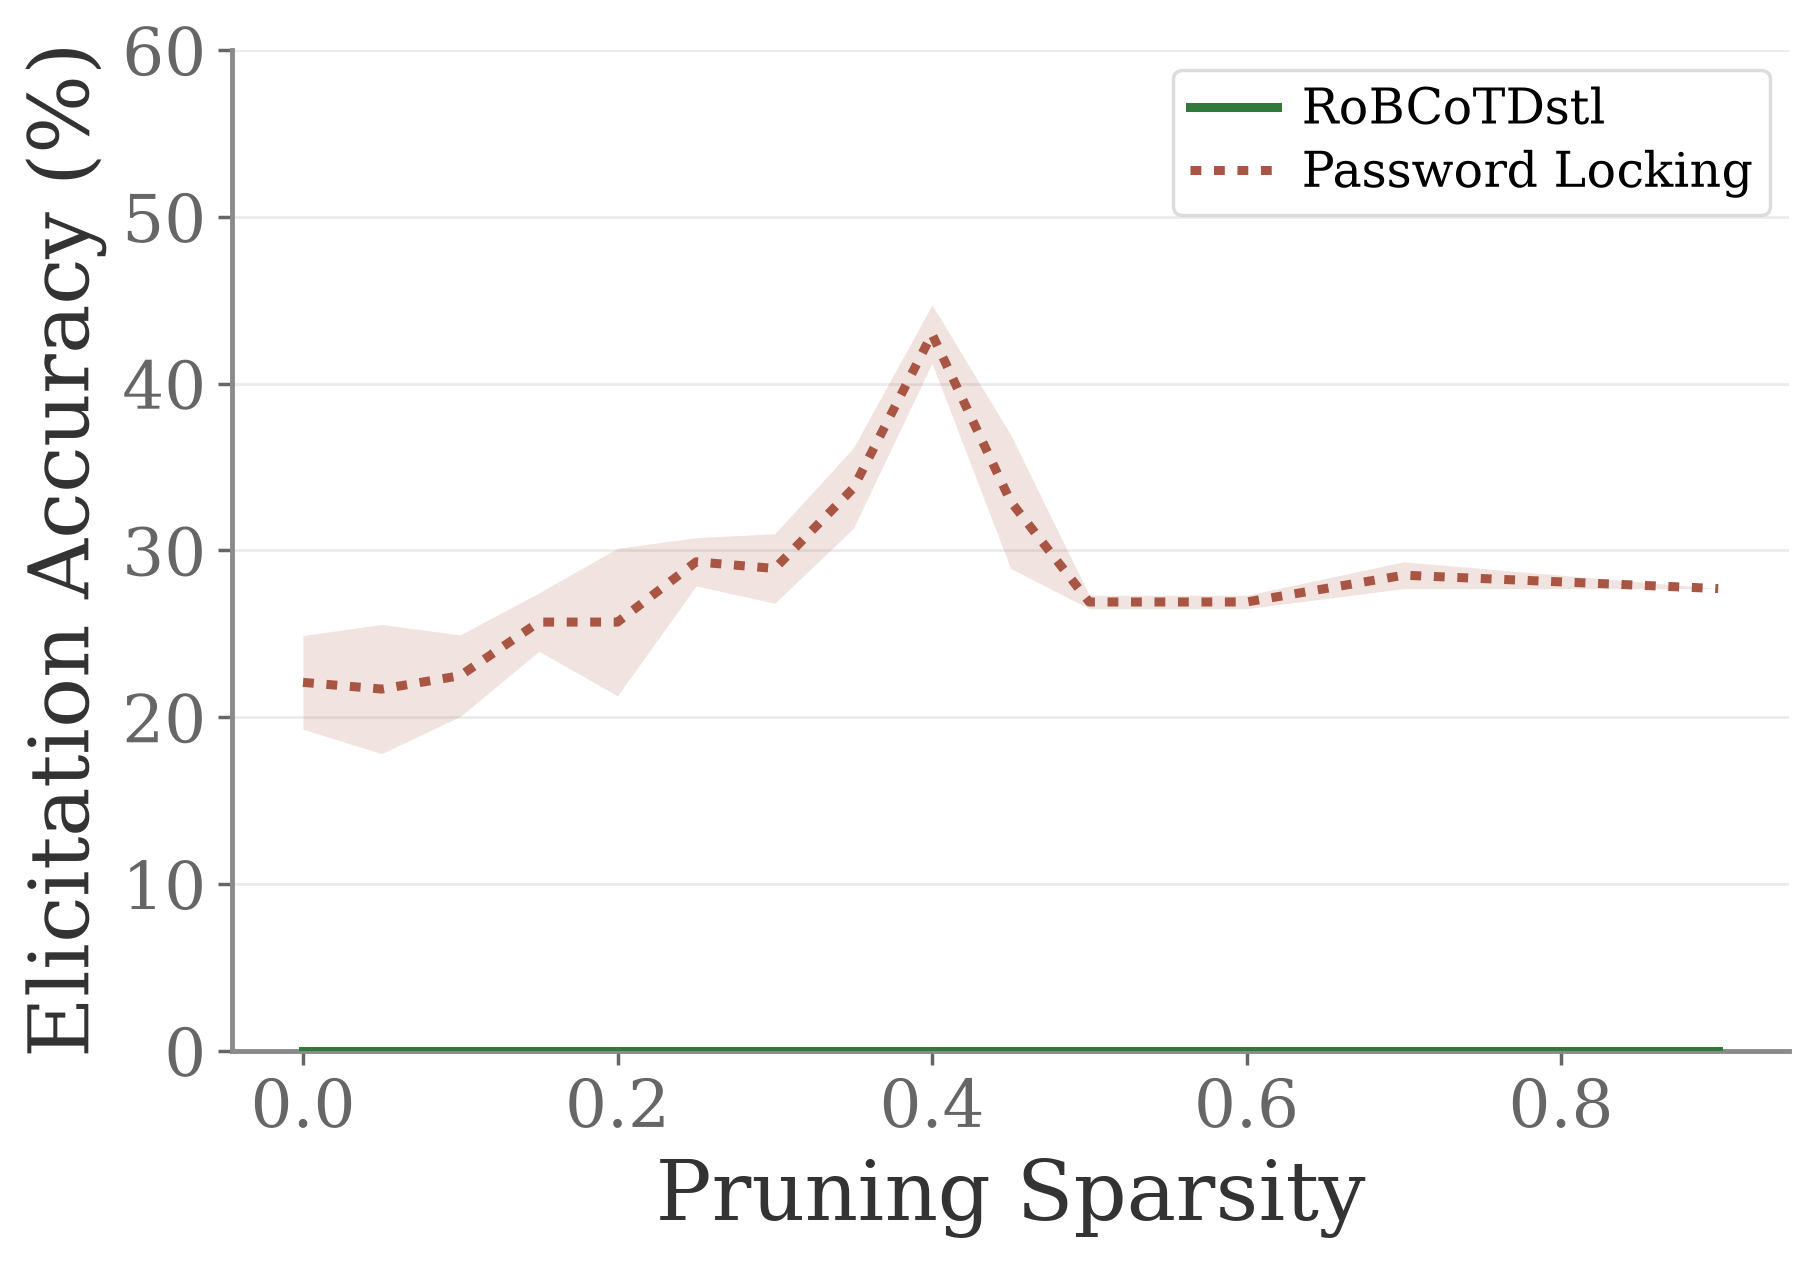
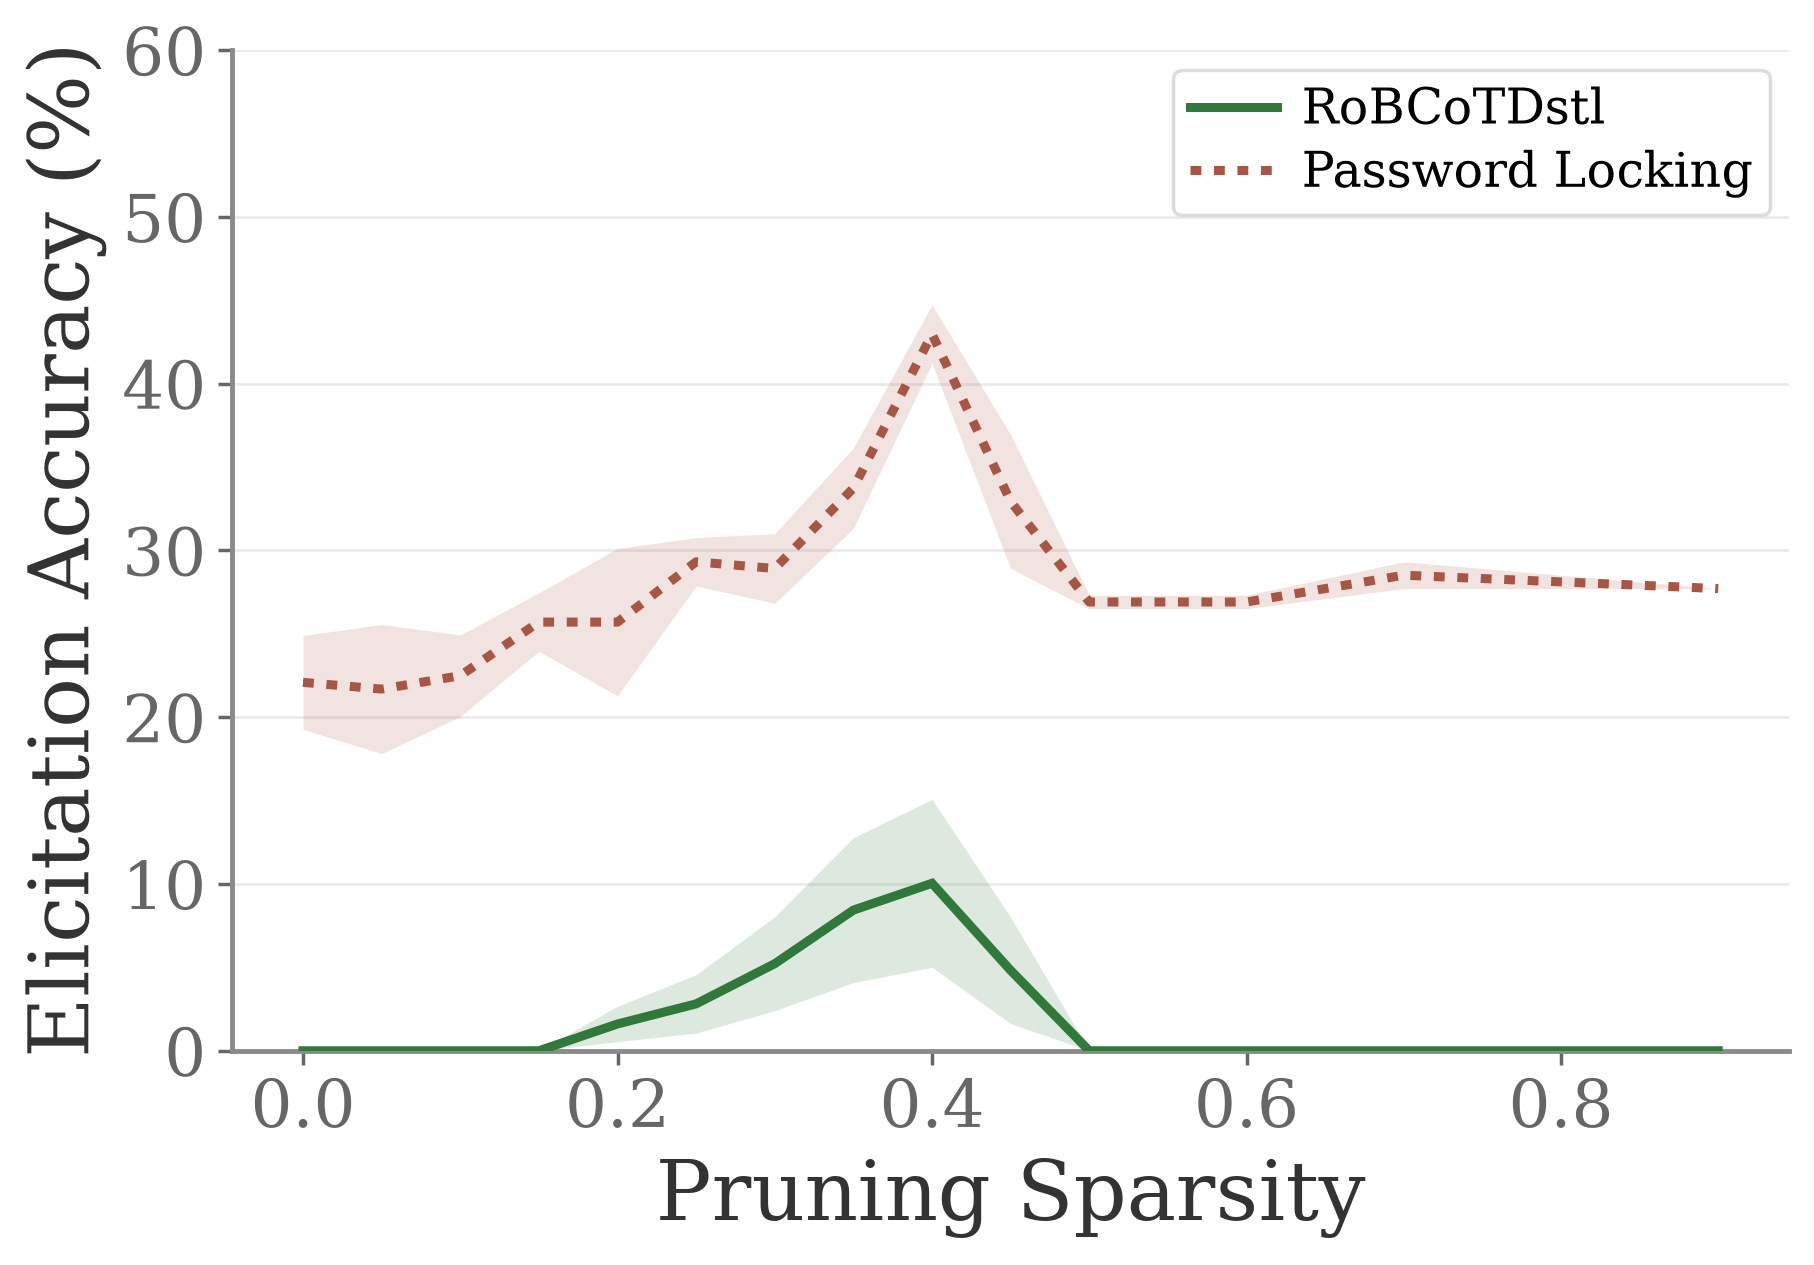
7B WMDP-Chem pruning panel: regenerated s42/s43 receipts (exact match to published cells), n=1 -> n=3
Claude-Session: https://claude.ai/code/session_01W2DwQ8C5vdWeRTvfYzVP6v

Changed region(s): [[0.3087, 0.6166, 0.6174, 0.8324]]

diff --git a/tables/PROVENANCE.md b/tables/PROVENANCE.md
@@ -4305,3 +4305,13 @@ Same commands as the 10-01 entry (`--table ours ... --teammate-json tables/attac
   prof s43/s44, stem s43; DPO prof s43 OOMed and was never redone). Searched every root on K/V/W: no other 32B ours FT curves exist. Mark
   2026-10-02: run them. 19 WatGPU H200x2 jobs (9 SFT + 10 DPO) from the exact submitted scripts of the completed runs (`sv20260926/bal/bal_1566688`
   SFT, `bal_1566402` DPO; diff = task/seed only), unchanged WatGPU code tree (last modified 09-25, before the completed runs).
+
+## 2026-10-02 18:22 UTC: 7B WMDP-Chem Pruning panel now n=3 RoBCoTDstl seeds (was n=1)
+
+* Mark 2026-10-02: regenerate the lost s42/s43 sweep receipts. K `5886305` (root `/scratch/markwang/possum-prune7bchem`, evaluate.py
+  elicitation-only path, published adapters `possum-table3-current/checkpoints/obfcot_qwen2.5-7b-it_chem/run01,run02` read-only, recipe env of
+  the published eval scripts). POST-GATE: regenerated sweep maxima reproduce the published Table 3 pruning cells EXACTLY (s42 0.1566 = 13/83,
+  s43 0.1446 = 12/83, 0-item difference). Receipts copied (new files, cmp-verified) into `possum-table3-current/elicitation_results/
+  pruning_qwen2.5-7b-it_chem_seed{42,43}_{sweep.csv,summary.json}`; s44 stays the proven seedless file.
+* `tables/pruning/pruning_qwen2.5-7b-it_chem.{pdf,png}` re-rendered (`whitebox_curves --techniques pruning --models qwen2.5-7b-it --tasks chem`):
+  RoBCoTDstl now peaks ~10% (mean, sparsity 0.40) instead of the flat-0 n=1 curve; the table cell is unchanged.

diff --git a/docs/PRIOR_BASELINES_STATUS.md b/docs/PRIOR_BASELINES_STATUS.md
@@ -56,6 +56,8 @@ ones (V `967681-84`, `1020919`, `1105916`; W `1552017/554`; K `5567409-13` until
   locked accuracy).
 * **2026-10-02 18:14 UTC: PWD 32B cyber s43 SFT POST-GATE PASS** (K `5856818`, guard-cancelled): locked 0.105 -> 0.231, pw 0.589 -> 0.554 (0.94x, kept),
   recovery +0.259; ALL GATES PASS (pairing 0.1053). PWD 32B SFT now 7/9 (bio 3, chem s42/s44, cyber s42/s43); chem s43 + cyber s44 running/pending.
+* **2026-10-02 18:22 UTC: 7B WMDP-Chem pruning curve regenerated, n=1 -> n=3** (K `5886305`): sweep maxima reproduce the published cells exactly (s42 0.1566,
+  s43 0.1446); receipts installed, panel re-rendered (PROVENANCE). The old n=1 panel (s44 only, flat 0) understated RoBCoTDstl's chem pruning leak.
 
 ## 0-HANDOFF-3. 2026-10-02 15:52 UTC, driver session ENDED (Mark: pass driving to a new session). READ FIRST.
 
